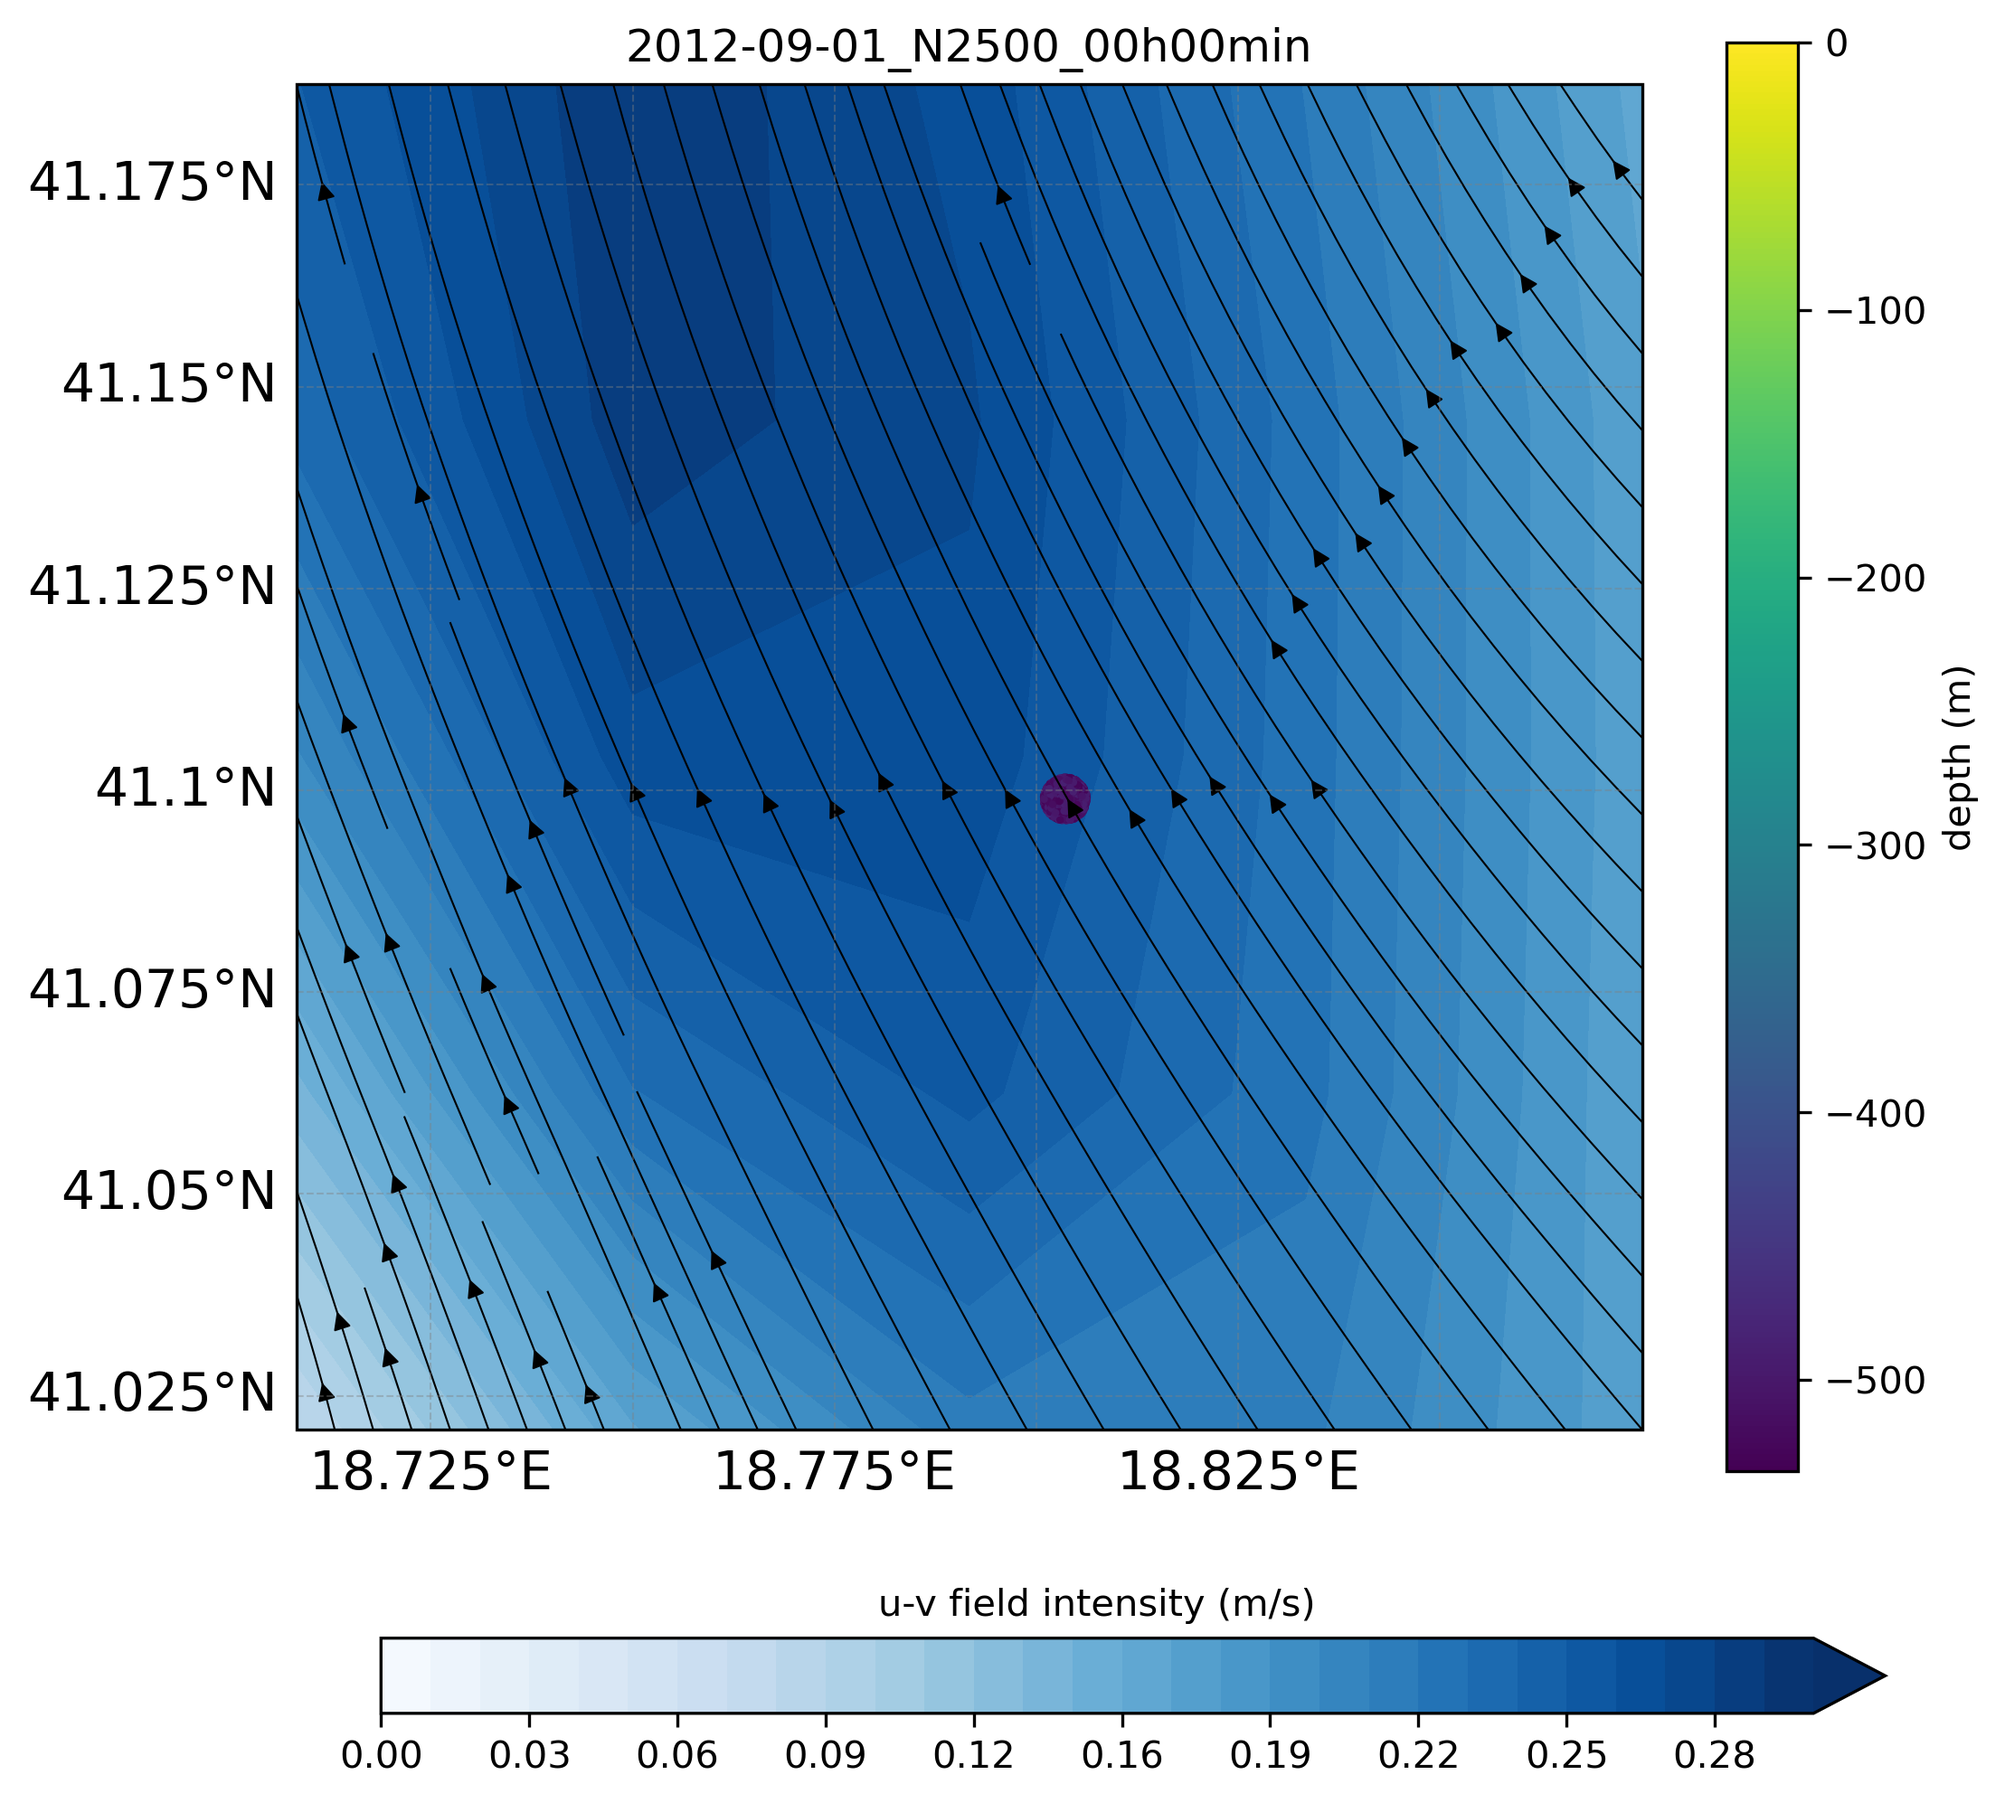
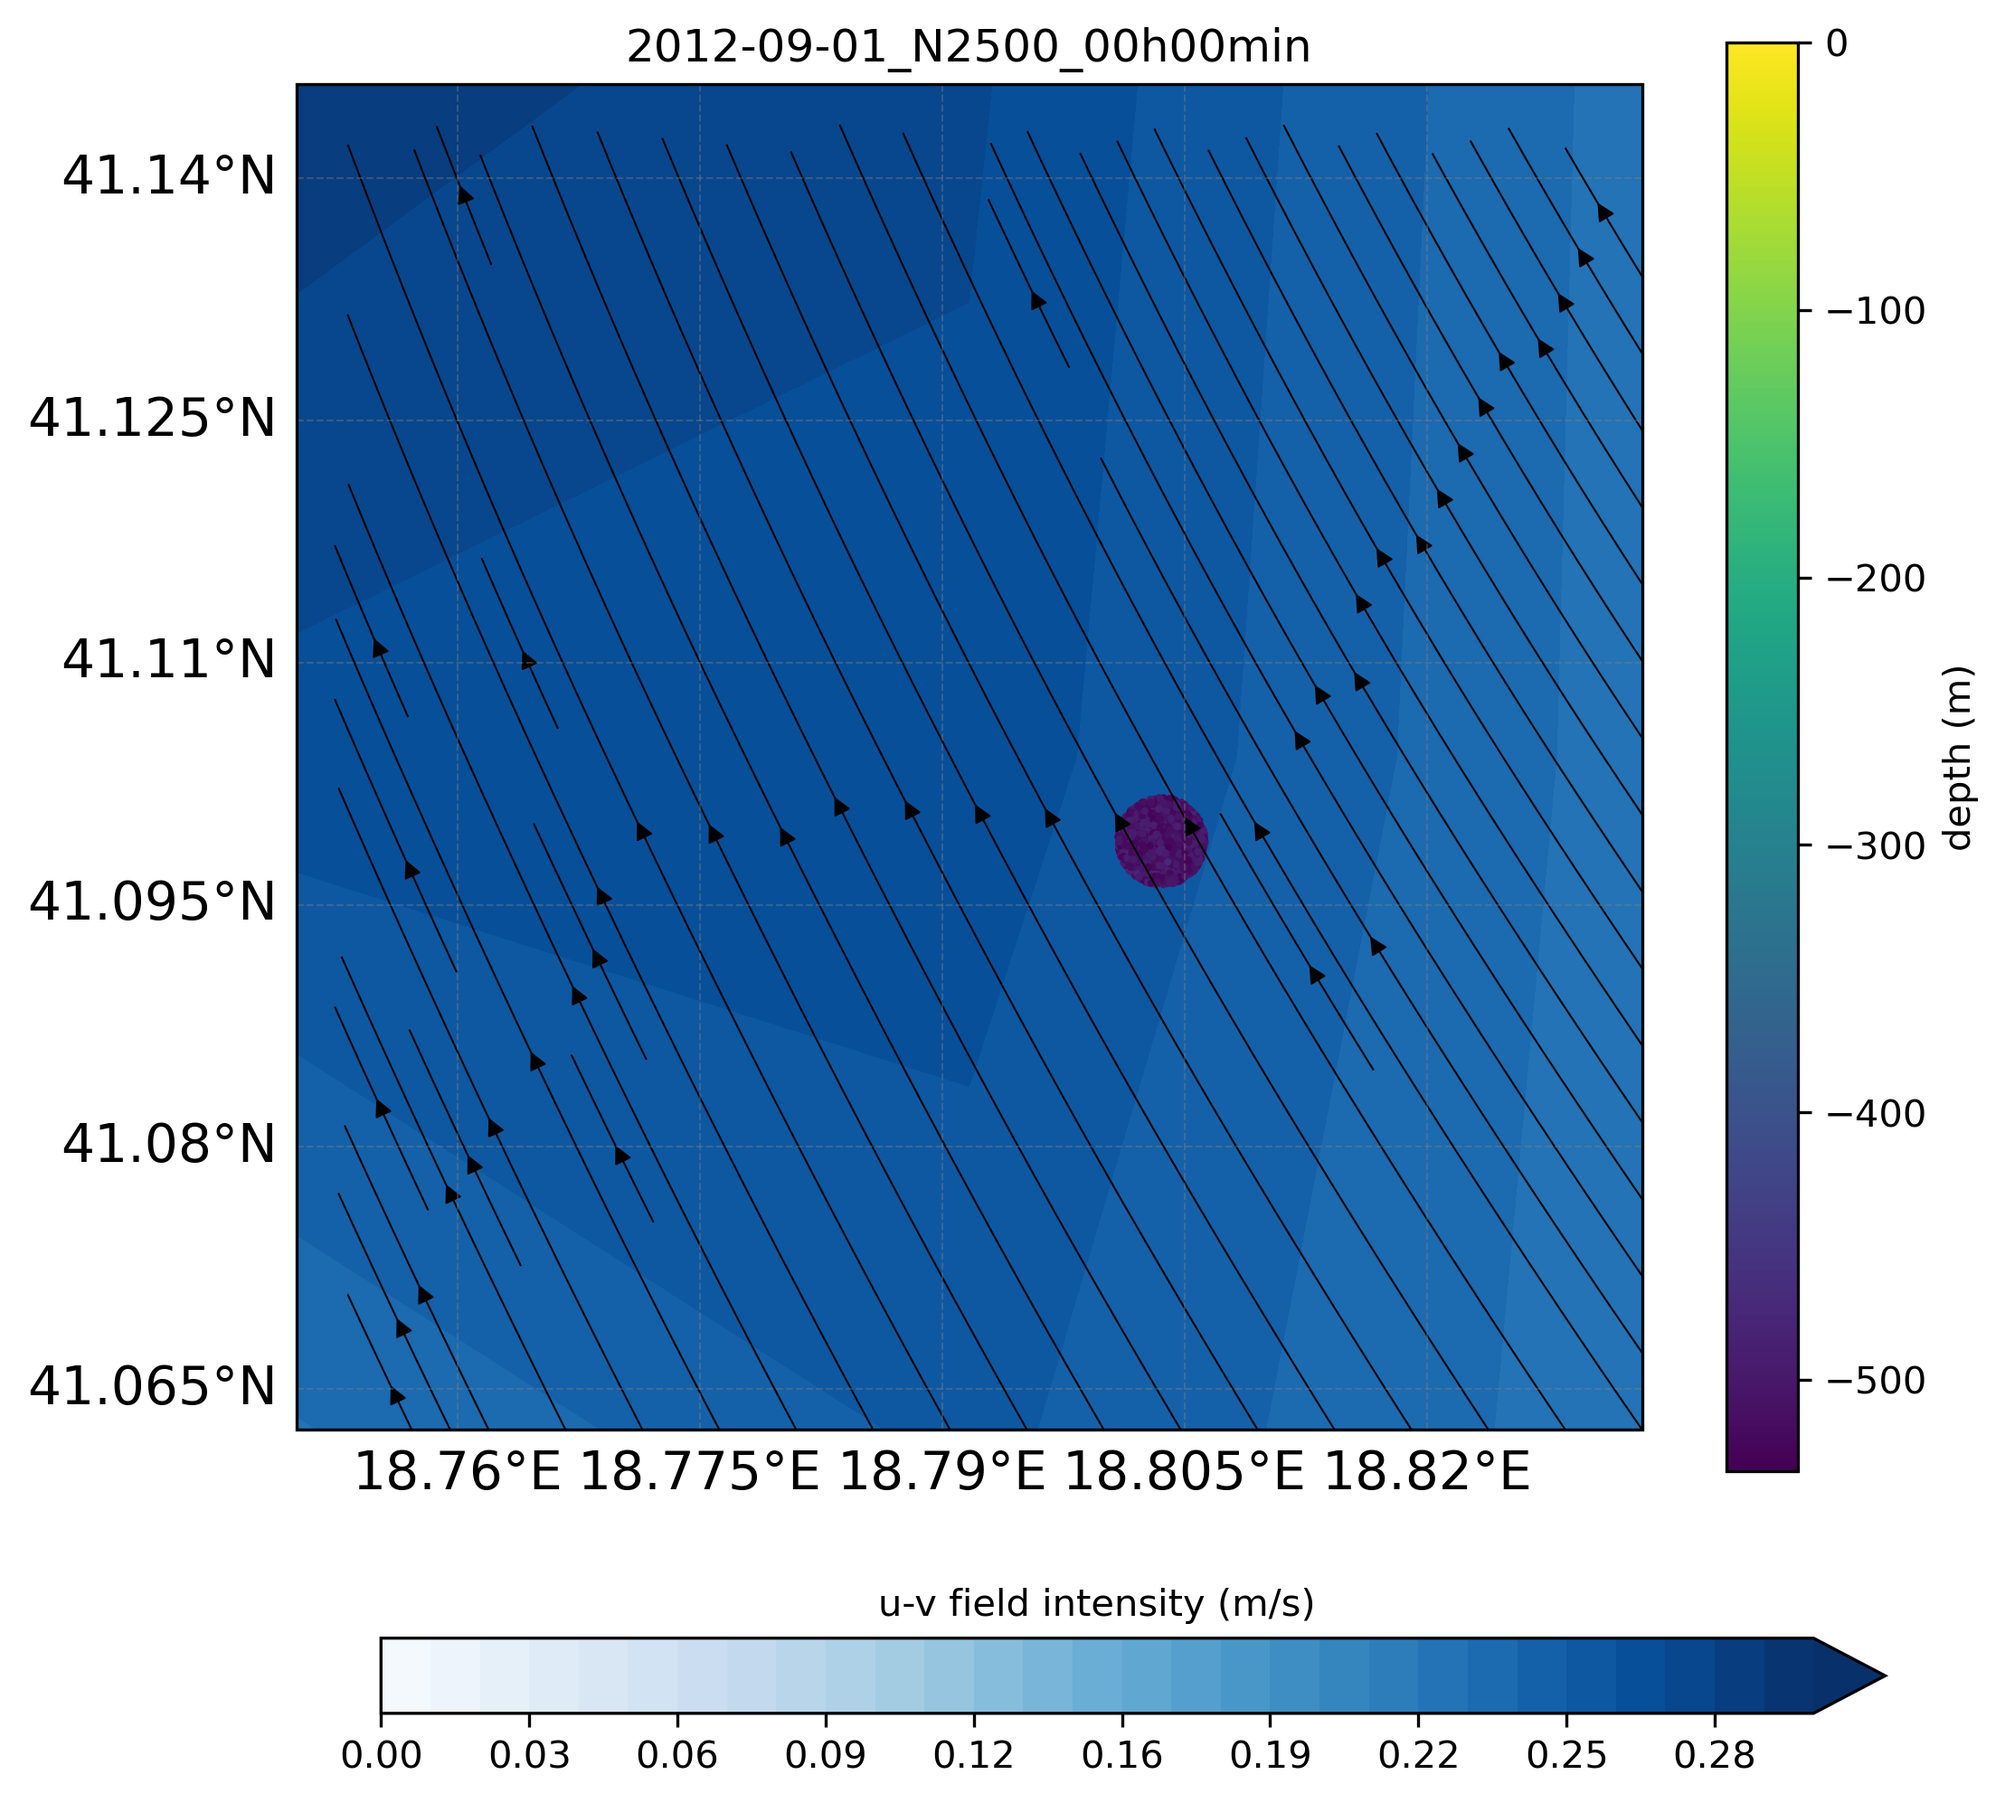
added visuals

Changed region(s): [[0.0, 0.0311, 0.8403, 0.8395]]

diff --git a/README.md b/README.md
@@ -1,16 +1,12 @@
-
 # Far-field
 
-At the end state of the near-field, a far-field motion takes place. Here, oil parcels are under 3D advection-diffusion by ocean currents and move independently. Another consistent characteristics is the vertical rising induced by oil buoyancy. This is very dependent on size, as larger particles have greater buoyancy with respect to smaller ones.
+At the end state of near-field, a far-field motion takes place. Here, oil parcels are under 3D advection-diffusion by ocean currents and move independently. Another consistent characteristics is the vertical rising induced by oil buoyancy. This is very dependent on size, as larger particles have greater buoyancy with respect to smaller ones.
 
 ### Preconfiguration of oil parcels
 
 A representative sample of oil particles is here modelled. Given release and ambient conditions, a likely parcel-size distribution is built (on a log-normal assumption) and size-corresponding buoyant velocity is calculated from a drag-buoyancy balance.
 
-Just insert the initial conditions of the Farfield simulation in _Init.yaml_ :
-
-Input values:
-
+Just insert the initial conditions in _Init.yaml_ :
 - oil density
 - nozzle diameter
 - release vertical velocity
@@ -26,13 +22,15 @@ A typical size-PDF is
 
 with vertical buoyant velocity
 
-
+<center>
+<img src="/buoyant_velocities.png" width="600">
+</center>
 
 
 
 ### Transport experiment
 
-In _Init.yaml_ we also the settings for the transport experiment:
+In _Init.yaml_ are also the settings for the transport experiment:
 
 - initial lat and lon (from near-field end state)
 - near-field plume dimension and intrusive depth (end of near-field)
@@ -54,17 +52,28 @@ Run _FarParcels.ipynb_ to do the following:
 5 - RUN the transport simulation
 
 
-In _Visuals.ipynb_ you can visualize the particle transport in time from two perspectives:
+### Visualization
+
+Running _Visuals.ipynb_ you can see the particle transport in time from two perspectives:
 
 - a Lat-Lon view with u-v intensity field, where parcels color represent depth
 
 <center>
+<img src="/parcels.zarr/PLOTS/2012-09-01_N2500_00h00min.png" width="600">
 <img src="/parcels.zarr/PLOTS/2012-09-01_N2500_00h15min.png" width="600">
+<img src="/parcels.zarr/PLOTS/2012-09-01_N2500_00h30min.png" width="600">
+<img src="/parcels.zarr/PLOTS/2012-09-01_N2500_01h00min.png" width="600">
+<img src="/parcels.zarr/PLOTS/2012-09-01_N2500_02h00min.png" width="600">
+  
 </center>
 
 
 - a Depth view, with rising oil particles, where parcels color represents vertical velocity
 
 <center>
+<img src="/parcels.zarr/PLOTS/Depth_2012-09-01_N2500_00h00min.png" width="600">
 <img src="/parcels.zarr/PLOTS/Depth_2012-09-01_N2500_00h15min.png" width="600">
+<img src="/parcels.zarr/PLOTS/Depth_2012-09-01_N2500_00h30min.png" width="600">
+<img src="/parcels.zarr/PLOTS/Depth_2012-09-01_N2500_01h00min.png" width="600">
+<img src="/parcels.zarr/PLOTS/Depth_2012-09-01_N2500_02h00min.png" width="600">
 </center>
